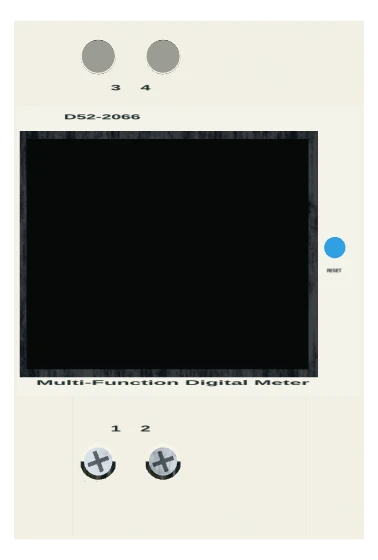
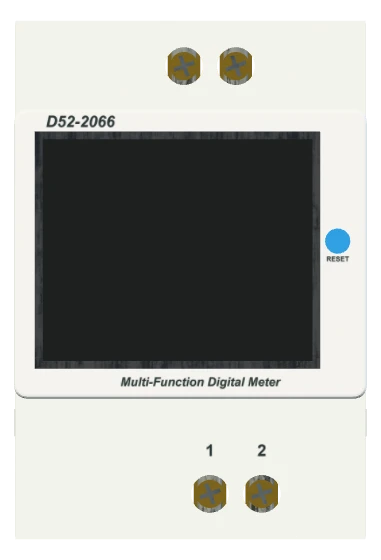
fix(d52-2066): modelo fiel às fotografias (bornes, serigrafia, acabamentos) + capa
- Degraus dos bornes a 50 mm e capuz frontal 22–66 mm com moldura boleada,
  aro preto do LCD e vidro com reflexo; RESET azul com legenda.
- Bornes 1/2 (baixo) e 3/4 (cima) nas posições das vistas frontais: parafusos
  de latão em gaiola, poço da chave pela frente e entrada do cabo atrás da cabeça.
- Serigrafia proporcional (sem deformação): «D52-2066» e «Multi-Function Digital
  Meter» em itálico, «1 2» junto aos bornes de tensão.
- Janelas das patilhas e junta base/tampa nas laterais; plástico branco-frio.
- Interfaces reais dos bornes e d52-probe atualizados; capas 3/4 e frontal regeneradas.

diff --git a/src/three/digitalMeterModel.ts b/src/three/digitalMeterModel.ts
@@ -36,13 +36,13 @@ export function createDigitalMeterObject(type:DigitalMeterType,state:Record<stri
   const box=(w:number,h:number,d:number,m:THREE.Material,name:string,at:[number,number,number])=>mesh(new THREE.BoxGeometry(w,h,d),m,name,at)
   const plane=(w:number,h:number,m:THREE.Material,name:string,at:[number,number,number])=>{const n=mesh(new THREE.PlaneGeometry(w,h),m,name,at);n.userData.protectionMarking=true;return n}
   const button=(x:number,y:number,z:number,r:number,name:string,m=white)=>{const g=new THREE.CylinderGeometry(r,r,1.2,24);g.rotateX(Math.PI/2);return mesh(g,m,name,[x,y,z])}
-  const bore=(body:THREE.Mesh,label:string,point:[number,number,number],axis:'x'|'y'|'z',normal:[number,number,number],radius:number,depth:number,through=false)=>{
+  const bore=(body:THREE.Mesh,label:string,point:[number,number,number],axis:'x'|'y'|'z',normal:[number,number,number],radius:number,depth:number,through=false,wallColor='#33372f')=>{
     const k={x:0,y:1,z:2}[axis],v=point[k],dir=normal[k],old=body.geometry
     body.geometry=finiteBore(old,axis,point,radius,through?-100:Math.min(v,v-dir*depth)-.01,through?100:Math.max(v,v-dir*depth)+.01);old.dispose()
     const group=new THREE.Group();group.name='digital_meter_connection_'+label;group.position.set(...point)
     group.quaternion.setFromUnitVectors(new THREE.Vector3(0,0,1),new THREE.Vector3(...normal))
     const wallG=new THREE.CylinderGeometry(radius-.02,radius-.02,depth,24,1,true);wallG.rotateX(Math.PI/2);wallG.translate(0,0,-depth/2)
-    const wallM=material('#33372f');wallM.side=THREE.DoubleSide
+    const wallM=material(wallColor);wallM.side=THREE.DoubleSide
     const wall=new THREE.Mesh(wallG,wallM);wall.name='cavity_'+label;group.add(wall)
     if(!through){const g=new THREE.CylinderGeometry(radius*.65,radius*.65,.6,24);g.rotateX(Math.PI/2);const screw=new THREE.Mesh(g,steel);screw.position.z=-depth+.4;screw.name='contact_'+label;group.add(screw)}
     root.add(group)
@@ -50,6 +50,15 @@ export function createDigitalMeterObject(type:DigitalMeterType,state:Record<stri
   const marking=(text:string,x:number,y:number,z:number,w:number,h:number,name:string)=>{
     const tex=cachedCanvasTexture(`meter:ink:${text}`,512,128,(ctx,pw,ph)=>{ctx.fillStyle='#343b3b';ctx.font='600 64px Arial, sans-serif';ctx.textAlign='center';ctx.textBaseline='middle';ctx.fillText(text,pw/2,ph/2,pw-10)})
     if(tex){const mat=new THREE.MeshBasicMaterial({map:tex,transparent:true,polygonOffset:true,polygonOffsetFactor:-2});bindCachedCanvasTexture(mat,tex);const n=plane(w,h,mat,name,[x,y,z]);n.raycast=()=>{}}
+  }
+  /** Serigrafia sem deformação: o plano segue a proporção do texto; `capMm` = altura das maiúsculas. */
+  const silk=(text:string,x:number,y:number,z:number,capMm:number,name:string,ink:{italic?:boolean;weight?:number;color?:string}={})=>{
+    const font=`${ink.italic?'italic ':''}${ink.weight??600} 72px Arial, sans-serif`,color=ink.color??'#3a4040'
+    const cw=Math.max(64,Math.ceil((text.length*44+24)/32)*32),ch=96
+    const tex=cachedCanvasTexture(`meter:silk:${font}:${color}:${text}`,cw,ch,(ctx,pw,ph)=>{ctx.fillStyle=color;ctx.font=font;ctx.textAlign='center';ctx.textBaseline='middle';ctx.fillText(text,pw/2,ph/2+2,pw-8)})
+    if(!tex)return
+    const mat=new THREE.MeshBasicMaterial({map:tex,transparent:true,polygonOffset:true,polygonOffsetFactor:-2});bindCachedCanvasTexture(mat,tex)
+    const h=capMm*ch/52,n=plane(h*cw/ch,h,mat,name,[x,y,z]);n.raycast=()=>{}
   }
   if(type==='currentTransformerSplitCore'){
     const shape=new THREE.Shape();shape.moveTo(-15,0);shape.lineTo(15,0);shape.quadraticCurveTo(18,0,18,3);shape.lineTo(18,45);shape.quadraticCurveTo(18,48,15,48);shape.lineTo(-15,48);shape.quadraticCurveTo(-18,48,-18,45);shape.lineTo(-18,3);shape.quadraticCurveTo(-18,0,-15,0);shape.closePath()
@@ -66,44 +75,52 @@ export function createDigitalMeterObject(type:DigitalMeterType,state:Record<stri
     marking('QNCTK1-16',0,43,24.04,26,3.1,'digital_meter_ct_type')
     marking('100 A / 50 mA',0,12.5,24.04,25,3,'digital_meter_ct_rating')
   }else if(type==='meterD522066'){
-    // External-CT variant (D52/YD52): solid body, no primary conductor tunnel.
-    // Primary CT is external (split-core or solid); secondary connects to 3/4.
-    // Profile matches photographed shell without the internal CT bore.
-    const body=profileBody(54,[[0,0],[42,0],[42,22],[64,22],[64,67],[44,67],[44,80],[0,80],[0,57],[7.5,57],[7.5,22],[0,22]],[],white);body.name='digital_meter_body';root.add(body)
-    box(53,44.6,.8,material('#eeeee6'),'digital_meter_frame',[0,44.5,63.6])
-    box(46,38,.1,dark,'digital_meter_lcd_recess',[-3.1,44,64.01])
-    plane(43.5,35.5,new THREE.MeshBasicMaterial({color:'#090c0b'}),'digital_meter_lcd',[-3.3,44,64.08])
-    button(22.5,45,63.7,1.65,'digital_meter_reset',blue)
-    // Voltage terminals 1/2 (bottom entry + front screwdriver wells with captive screws)
-    for(const[label,x]of [['1',-14],['2',-4]] as const){
-      bore(body,label,[x,0,30],'y',[0,-1,0],2.7,12)
-      // Distinct cable mouth and front screwdriver well. The captive head is
-      // recessed 2.6 mm, with a real cross slot; never a gold/black face disk.
-      bore(body,'screwdriver_'+label,[x,12,42],'z',[0,0,1],2.8,11)
-      const screw=buildCaptiveTerminalScrew('d52_'+label,2.18)
-      screw.position.set(x,12,39.4);root.add(screw)
-      const shank=new THREE.CylinderGeometry(1.05,1.05,8.6,20);shank.rotateX(Math.PI/2)
-      mesh(shank,steel,'digital_meter_screw_shank_'+label,[x,12,34.2])
+    // D52-2066 / YD52-2066 (TC externo): 3 módulos DIN, 54 × 80 × 64 mm.
+    // Fotografias de referência: degraus dos bornes a 50 mm, capuz frontal 22–66 mm
+    // com moldura arredondada, janela LCD com aro preto e vidro, RESET azul à direita.
+    // Bornes: 1/2 (tensão) em baixo, 3/4 (secundário do TC) em cima — parafusos de
+    // latão em gaiola, entrada do cabo junto à aresta (fenda em U) e chave pela frente.
+    const shell=material('#e7e9e4'),bezelM=material('#f0f1ed'),brass=new THREE.MeshStandardMaterial({color:'#c9a85c',metalness:.85,roughness:.32})
+    shell.roughness=.62;bezelM.roughness=.5
+    const SH=50 // face dos degraus (bornes), medida a partir da parede traseira
+    const body=profileBody(54,[[0,0],[SH,0],[SH,22],[62,22],[62,66],[SH,66],[SH,80],[0,80],[0,57.5],[7.5,57.5],[7.5,22.5],[0,22.5]],[],shell);body.name='digital_meter_body';root.add(body)
+    // Moldura frontal (tampa do visor) com arestas boleadas.
+    const bezelShape=new THREE.Shape(),bw=53.2,bh=43.4,br=1.6
+    bezelShape.moveTo(-bw/2+br,-bh/2);bezelShape.lineTo(bw/2-br,-bh/2);bezelShape.quadraticCurveTo(bw/2,-bh/2,bw/2,-bh/2+br);bezelShape.lineTo(bw/2,bh/2-br);bezelShape.quadraticCurveTo(bw/2,bh/2,bw/2-br,bh/2)
+    bezelShape.lineTo(-bw/2+br,bh/2);bezelShape.quadraticCurveTo(-bw/2,bh/2,-bw/2,bh/2-br);bezelShape.lineTo(-bw/2,-bh/2+br);bezelShape.quadraticCurveTo(-bw/2,-bh/2,-bw/2+br,-bh/2)
+    mesh(new THREE.ExtrudeGeometry(bezelShape,{depth:1.4,bevelEnabled:true,bevelThickness:.6,bevelSize:.6,bevelSegments:3,curveSegments:8}),bezelM,'digital_meter_frame',[0,44,62])
+    // Janela: aro preto do LCD, ecrã ativo e vidro com reflexo (sem apanhar cliques).
+    const WX=-2,WY=44.6
+    box(44,36.6,.3,material('#15181a'),'digital_meter_lcd_recess',[WX,WY,64.05])
+    plane(41.6,34.2,new THREE.MeshBasicMaterial({color:'#090c0b'}),'digital_meter_lcd',[WX,WY,64.22])
+    const glass=plane(44,36.6,new THREE.MeshStandardMaterial({color:'#ffffff',transparent:true,opacity:.1,roughness:.06,metalness:.1,depthWrite:false}),'digital_meter_glass',[WX,WY,64.32])
+    glass.raycast=()=>{};glass.userData.protectionMarking=false
+    button(22.7,46,64.2,1.95,'digital_meter_reset',blue)
+    // Janelas das patilhas e junta base/tampa nas duas laterais.
+    const shade=material('#b9bcb5'),seam=material('#cbcec7')
+    for(const sx of [-1,1]){
+      for(const y of [18,62])box(.3,4.2,2.2,shade,'digital_meter_latch_window',[sx*27.02,y,21])
+      box(.06,79.4,.22,seam,'digital_meter_mold_seam',[sx*27.03,40,16.5])
     }
-    // CT secondary terminals 3/4 (top entry + front screwdriver wells) — external CT wiring.
-    // At y≈68 the stepped body face is z=44 (not 42 as the bottom step): the well
-    // must cross that face, otherwise the captive screw stays sealed inside.
-    for(const[label,x]of [['3',-14],['4',-4]] as const){
-      bore(body,label,[x,80,30],'y',[0,1,0],2.7,12)
-      bore(body,'screwdriver_'+label,[x,68,44],'z',[0,0,1],2.8,13.1)
+    const terminal=(label:string,x:number,top:boolean)=>{
+      const yWell=top?73:7,yFace=top?80:0,n=top?1:-1
+      // Entrada do cabo atrás da cabeça do parafuso (gaiola), poço da chave pela frente.
+      bore(body,label,[x,yFace,44],'y',[0,n,0],2.3,10,false,'#7d8079')
+      bore(body,'screwdriver_'+label,[x,yWell,SH],'z',[0,0,1],2.9,6.2,false,'#a3a69f')
       const screw=buildCaptiveTerminalScrew('d52_'+label,2.18)
-      screw.position.set(x,68,41.4);root.add(screw)
-      const shank=new THREE.CylinderGeometry(1.05,1.05,9.8,20);shank.rotateX(Math.PI/2)
-      mesh(shank,steel,'digital_meter_screw_shank_'+label,[x,68,36.4])
+      screw.traverse(o=>{const m=o as THREE.Mesh;if(m.isMesh&&o.name.startsWith('terminal_screw_head_')){(m.material as THREE.Material).dispose();m.material=brass}})
+      screw.position.set(x,yWell,SH-2.6);root.add(screw)
+      const shank=new THREE.CylinderGeometry(1.05,1.05,6,20);shank.rotateX(Math.PI/2)
+      mesh(shank,brass,'digital_meter_screw_shank_'+label,[x,yWell,SH-6.2])
+      box(5,5.4,3.2,brass,'digital_meter_clamp_'+label,[x,yWell,43.6])
     }
-    marking('3    4',-9,69.6,44.025,22,2.3,'digital_meter_ct_terminals')
-    marking('D52-2066',-13.4,65.1,64.09,21.5,2.1,'digital_meter_type')
-    marking('Multi-Function Digital Meter',-2.5,24.1,64.09,43,2,'digital_meter_legend')
-    marking('1    2',-9,17,42.025,22,2.5,'digital_meter_voltage_terminals')
-    marking('RESET',22.4,41.4,64.09,5.3,1.5,'digital_meter_reset_label')
-    // Fine molded joints, not contrasting stripes across a generic block.
-    for(const x of [-18,18])box(.10,79,.05,material('#cdd0c7'),'digital_meter_mold_seam',[x,40,43.96])
-    for(const y of [18,61]){box(11,2,2,white,'digital_meter_din_clip_bar',[0,y,1]);for(const x of [-4,4])box(1.4,6,1.8,white,'digital_meter_din_clip_arm',[x,y+2,1])}
+    // Posições pela vista frontal das fotos: 3/4 junto ao centro, 1/2 desviados à direita.
+    for(const[label,x]of [['3',-1],['4',7]] as const)terminal(label,x,true)
+    for(const[label,x]of [['1',3],['2',11]] as const){terminal(label,x,false);silk(label,x,13.6,SH+.025,1.8,'digital_meter_voltage_terminals',{weight:700})}
+    silk('D52-2066',-17,64.35,64.08,1.75,'digital_meter_type',{italic:true,weight:800})
+    silk('Multi-Function Digital Meter',1.5,24.2,64.08,1.35,'digital_meter_legend',{italic:true,weight:700})
+    silk('RESET',22.7,43.2,64.08,.75,'digital_meter_reset_label',{weight:700})
+    for(const y of [18,61]){box(11,2,2,shell,'digital_meter_din_clip_bar',[0,y,1]);for(const x of [-4,4])box(1.4,6,1.8,shell,'digital_meter_din_clip_arm',[x,y+2,1])}
   }else{
     const body=profileBody(74,[[0,0],[43,0],[43,18],[65,20],[65,66.5],[43,68.5],[43,86.5],[0,86.5],[0,61],[7.5,61],[7.5,25],[0,25]],[],white);body.name='digital_meter_body';root.add(body)
     box(68,48,1,dark,'digital_meter_frame',[0,43.25,64.45])

diff --git a/scripts/d52-probe.ts b/scripts/d52-probe.ts
@@ -12,17 +12,17 @@ const cast = (ox: number, oy: number, oz: number, dx: number, dy: number, dz: nu
 }
 
 let ok = true
-console.log('== wells 3/4 (x=-14/-4, y=68, from z=50) ==')
-for (const x of [-14, -4]) {
-  const hits = cast(x, 68, 50, 0, 0, -1)
+console.log('== wells 3/4 (x=-1/7, y=73, from z=56) ==')
+for (const x of [-1, 7]) {
+  const hits = cast(x, 73, 56, 0, 0, -1)
   const screw = hits.find(h => h.object.name.startsWith('terminal_screw_slot_floor_d52_'))
   const body = hits.find(h => h.object.name === 'digital_meter_body')
-  console.log(`x=${x}: ${hits.length} hits; body at z=${body ? (50 - body.distance / U).toFixed(2) : 'none'}; screw slot at z=${screw ? (50 - screw.distance / U).toFixed(2) : 'not hit'}`)
-  if (body && (50 - body.distance / U) > 43.0) { console.error('SEALED WELL', x); ok = false }
+  console.log(`x=${x}: ${hits.length} hits; body at z=${body ? (56 - body.distance / U).toFixed(2) : 'none'}; screw slot at z=${screw ? (56 - screw.distance / U).toFixed(2) : 'not hit'}`)
+  if (body && (56 - body.distance / U) > 49.0) { console.error('SEALED WELL', x); ok = false }
   if (!screw) { console.error('SCREW NOT HIT', x); ok = false }
 }
-console.log('== through body 1/2 (x=-14/-4, z=30, from y=-10) ==')
-for (const x of [-14, -4]) {
+console.log('== through body 1/2 (x=3/11, z=30, from y=-10) ==')
+for (const x of [3, 11]) {
   const hits = cast(x, -10, 30, 0, 1, 0)
   console.log(`x=${x}: ${hits.length} hits`)
   if (!hits.length) { console.error('THROUGH HOLE', x); ok = false }

diff --git a/src/electrical/realInterfaces.ts b/src/electrical/realInterfaces.ts
@@ -224,10 +224,11 @@ export const REAL_TERMINALS: Partial<Record<ComponentType, RealTerminalSpot[]>> 
     {"label":"8","face":"bottom","x":0.875,"y":0.95858,"z":0.738,"diameterMm":9,"holeDepthMm":15},
   ],
   meterD522066: [
-    {label:'1',face:'bottom',x:13/54,y:1,z:30/64,diameterMm:5.4,holeDepthMm:12},
-    {label:'2',face:'bottom',x:23/54,y:1,z:30/64,diameterMm:5.4,holeDepthMm:12},
-    {label:'3',face:'top',x:13/54,y:0,z:30/64,diameterMm:5.4,holeDepthMm:12},
-    {label:'4',face:'top',x:23/54,y:0,z:30/64,diameterMm:5.4,holeDepthMm:12},
+    // Entradas do cabo atrás da cabeça do parafuso (z = 44 mm), posições das fotos frontais.
+    {label:'1',face:'bottom',x:30/54,y:1,z:44/64,diameterMm:4.6,holeDepthMm:10},
+    {label:'2',face:'bottom',x:38/54,y:1,z:44/64,diameterMm:4.6,holeDepthMm:10},
+    {label:'3',face:'top',x:26/54,y:0,z:44/64,diameterMm:4.6,holeDepthMm:10},
+    {label:'4',face:'top',x:34/54,y:0,z:44/64,diameterMm:4.6,holeDepthMm:10},
   ],
   meterKws306: [
     ...[-28,-9.3,9.3,28].map((x,i)=>({label:['L1-IN','L2-IN','L3-IN','N-IN'][i],face:'top' as const,x:(x+37)/74,y:0,z:30/65,diameterMm:7.4,holeDepthMm:12})),
